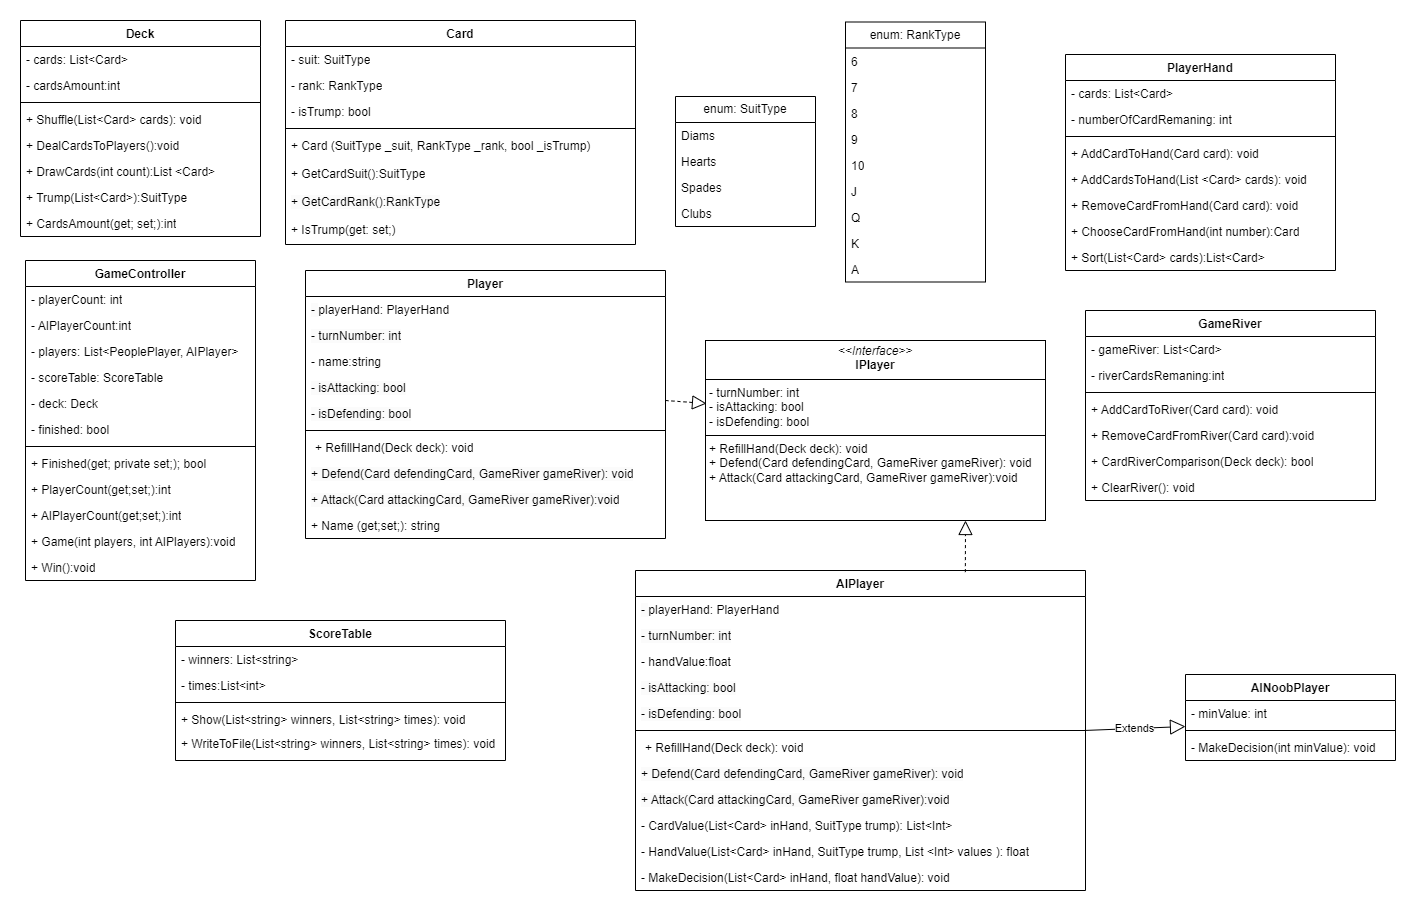
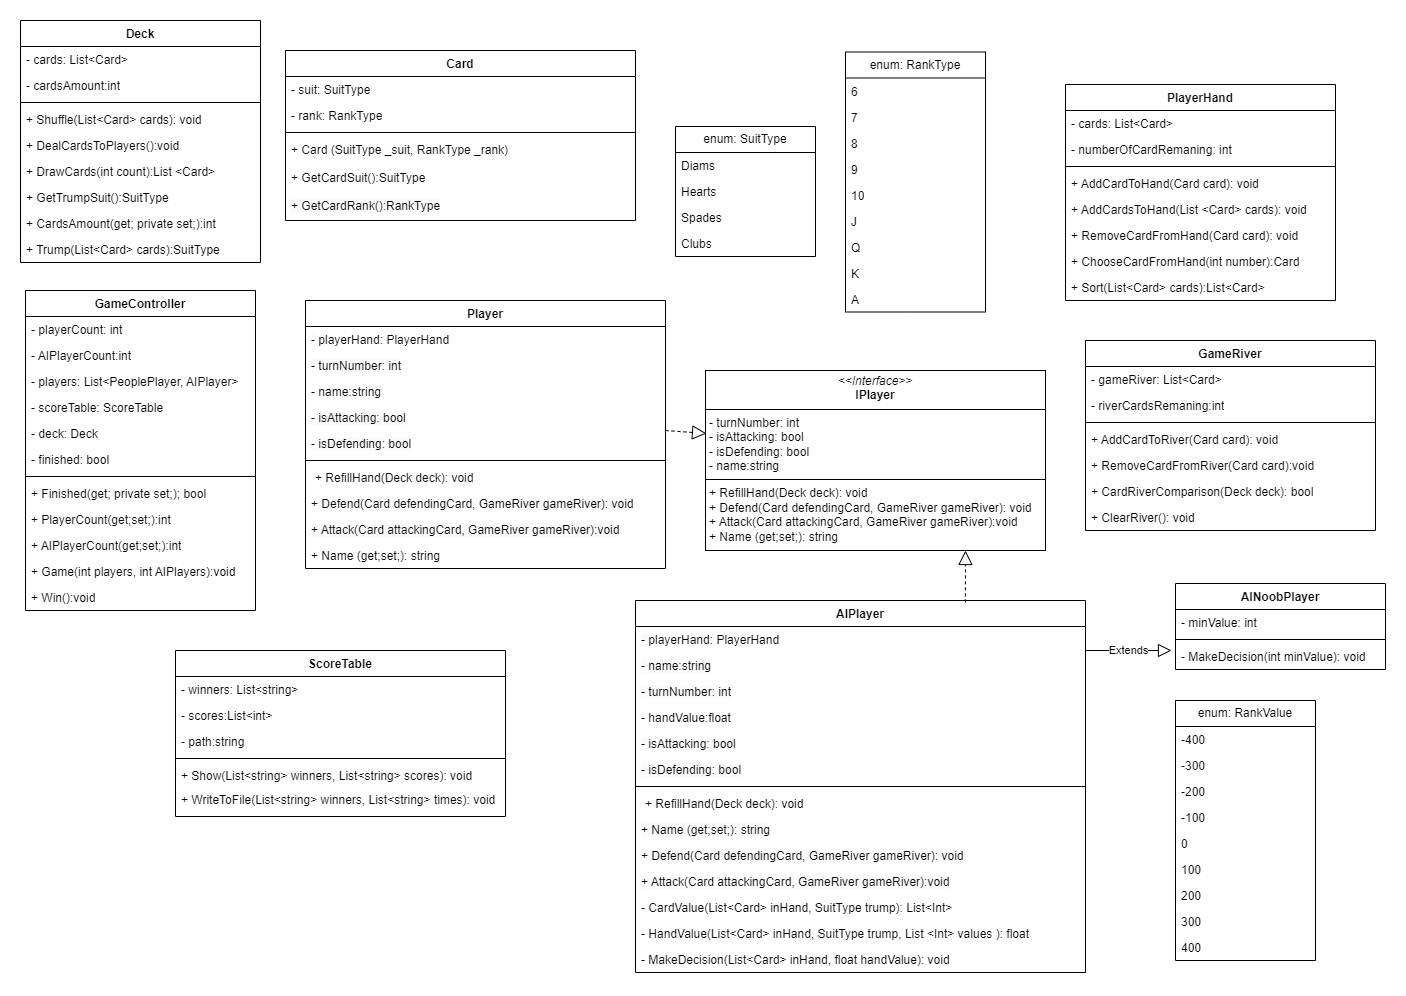
upd

diff --git a/Classes/Deck.cs b/Classes/Deck.cs
@@ -8,9 +8,14 @@ namespace TheFool
         private List<Card> cards = new List<Card>();
         private int cardsAmount = 36;
 
+        private SuitType trumpSuit = SuitType.Clubs;
 
+        public SuitType GetTrumpSuit() {
+            return trumpSuit;
+        }
+        
         public void Shuffle(List<Card> cards){
-            cards.sort((a,b) => _random.Next(-2,2));
+            cards.Sort((a,b) => _random.Next(-2,2));
         }
 
         public Card DrawCards(int count){
@@ -19,24 +24,25 @@ namespace TheFool
             for(int i=0;i<count;i++){
                 drawnCards.Add(cards.ElementAt(0));
                 cards.RemoveAt(0);
+                cardsAmount--;
             }
             return drawnCards;
         }
 
-        public CardsAmount{get; set;}
+        public CardsAmount{get; private set;}
 
         public SuitType Trump(List<Card> cards){
             Card trumpCard;
             trumpCard = cards.ElementAt(0);
             cards.RemoveAt(0);
-
-            //что-то для циклического сдвига в списке
-
+            cards.Add(trumpCard);
             return trumpCard.suit;
         }
 
-        public void DealCardsToPlayers(List<Card> cards){
-
+        public void DealCardsToPlayers(List<Card> cards, List<Player, AIPlayer> players){
+            for(int p = 0;p<players.Count;p++){
+                players[p].playerHand.cards = DrawCards(6);
+            }
         }
     }
 }

diff --git a/Classes/ScoreTable.cs b/Classes/ScoreTable.cs
@@ -1,0 +1,35 @@
+namespace TheFool
+{
+    public class ScoreTable{
+        private List<string> winners = new List<string>();
+        private List<int> scores = new List<int>();
+
+        //private string path = "C:/Users/МиненковаНА/Projects/TheFool/Scores/scores.txt";
+
+        public void Show(List<string> winners, List<int> scores){
+            // асинхронное чтение
+            //using (StreamReader reader = new StreamReader(path))
+            //{
+            //    string? line;
+            //    while ((line = await reader.ReadLineAsync()) != null)
+            //       {
+            //        Console.WriteLine(line);
+            //    }
+            //}
+        }
+
+        public void WriteToFile(List<string> winners, List<int> scores){
+            // полная перезапись файла 
+            //using (StreamWriter writer = new StreamWriter(path, false))
+            //{
+            //    await writer.WriteLineAsync(text);
+            //}
+            // добавление в файл
+            //using (StreamWriter writer = new StreamWriter(path, true))
+            //{
+            //    await writer.WriteLineAsync("Addition");
+            //   await writer.WriteAsync("4,5");
+            //}   
+        }
+    }
+}

diff --git a/Classes/AIPlayer.cs b/Classes/AIPlayer.cs
@@ -1,0 +1,37 @@
+namespace TheFool;
+public class AIPlayer:IPlayer {
+    private string name = 'Bot-Hard';
+    private int turnNumber = -1;
+    private bool isAttacking = false;
+    private bool isDefending = false;
+
+    private float handValue = -1f;
+
+    public string Name{get;private set;}
+    public void RefillHand(Deck deck){
+        playerHand.cards = deck.DrawCards(playerHand.numberOfCardsRemaining);
+    }
+
+    public void Attack(Card attackingCard, GameRiver gameRiver){
+
+    }
+    public void Defend(Card defendingCard, GameRiver gameRiver){
+
+    }
+
+    private List<int> CardValue(List<Card> inHand, SuitType trumpSuit){
+        List<int> values = new List<int>();
+
+        return values;
+    }
+
+    private float HandValue(List<Card> inHand, SuitType trumpSuit, List<int> values){
+ 
+        return handValue;
+    }
+
+    protected virtual void MakeDecision(){
+        
+    }
+
+}

diff --git a/Classes/Card.cs b/Classes/Card.cs
@@ -1,32 +1,15 @@
-namespace TheFool
-{
     public class Card{
         public readonly SuitType suit;
         public readonly RankType rank;
-        private bool isTrump = false;
-
         public Card(){}
-        public Card (SuitType _suit, RankType _rank, bool _trump){
+        public Card (SuitType _suit, RankType _rank){
             suit = _suit;
             rank = _rank;
-            isTrump = _trump;
         }
-
-        public bool IsTrump{
-            get{
-                return isTrump;
-            }
-            set{
-                isTrump = value;
-            }
-        }
-
         public SuitType GetCardSuit() {
             return suit;
         }
-
         public RankType GetCardRank(){
             return rank;
         }
     }
-}

diff --git a/Classes/AINoobPlayer.cs b/Classes/AINoobPlayer.cs
@@ -1,0 +1,22 @@
+namespace TheFool;
+public class AINoobPlayer:AIPlayer{
+    private string name = 'Bot-Noob';
+    private int turnNumber = -1;
+    private bool isAttacking = false;
+    private bool isDefending= false;
+    private int minValue = 0;
+    public string Name{get;private set;}
+    public void RefillHand(Deck deck){
+        playerHand.cards = deck.DrawCards(playerHand.numberOfCardsRemaining);
+    }
+
+    public void Attack(Card attackingCard, GameRiver gameRiver)[
+
+    ]
+    public void Defend(Card defendingCard, GameRiver gameRiver){
+
+    }
+    protected virtual void MakeDecision(int minValue){
+        
+    }
+}

diff --git a/Classes/Player.cs b/Classes/Player.cs
@@ -1,0 +1,22 @@
+namespace TheFool;
+public class Player:IPlayer {
+    private string name = 'Player';
+    private int turnNumber=-1;
+    private bool isAttacking=false;
+    private bool isDefending=false;
+
+    private PlayerHand playerHand;
+
+    public string Name{get;set;}
+    public void RefillHand(Deck deck){
+        playerHand.cards = deck.DrawCards(playerHand.numberOfCardsRemaining);
+    }
+
+    public void Attack(Card attackingCard, GameRiver gameRiver){
+
+    }
+
+    public void Defend(Card defendingCard, GameRiver gameRiver){
+
+    }
+}

diff --git a/Classes/PlayerHand.cs b/Classes/PlayerHand.cs
@@ -1,0 +1,25 @@
+namespace TheFool
+{
+    public class PlayerHand{
+        private List<Card> cards = new List<Card>();
+        private int numberOfCardsRemaining = 0;
+
+
+        public void AddCardToHand(Card card){
+
+        }
+        public void AddCardsToHand(List<Card> cards){
+
+        }
+        public void RemoveCardFromHand(Card card){
+
+        }
+        public Card ChooseCardFromHand(int number){
+
+        }
+
+        private void Sort(List<Card> cards){
+            
+        }
+    }
+}

diff --git a/Interfaces/IPlayer.cs b/Interfaces/IPlayer.cs
@@ -1,0 +1,14 @@
+namespace TheFool;
+
+interface IPlayer{
+    private string name = 'Bot';
+    private int turnNumber;
+    private bool isAttacking;
+    private bool isDefending;
+
+    public string Name{get;set;}
+    public void RefillHand(Deck deck);
+
+    public void Attack(Card attackingCard, GameRiver gameRiver);
+    public void Defend(Card defendingCard, GameRiver gameRiver);
+}

diff --git a/Classes/RankValue.cs b/Classes/RankValue.cs
@@ -1,0 +1,14 @@
+namespace TheFool{
+    public enum RankValue{
+        -400 = 0,
+        -300,
+        -200,
+        -100,
+        0,
+        100,
+        200,
+        300,
+
+        400
+    }
+}

diff --git a/Classes/GameRiver.cs b/Classes/GameRiver.cs
@@ -1,0 +1,6 @@
+namespace TheFool
+{
+    public class GameRiver{
+        
+    }
+}
